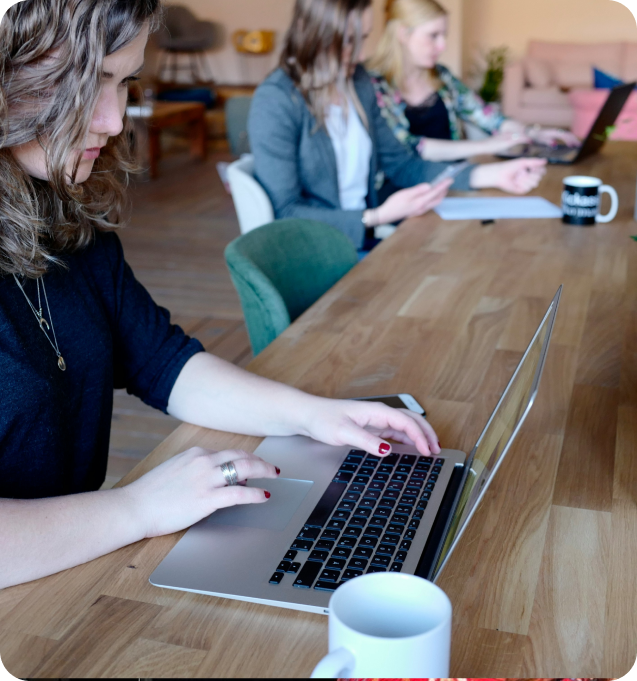
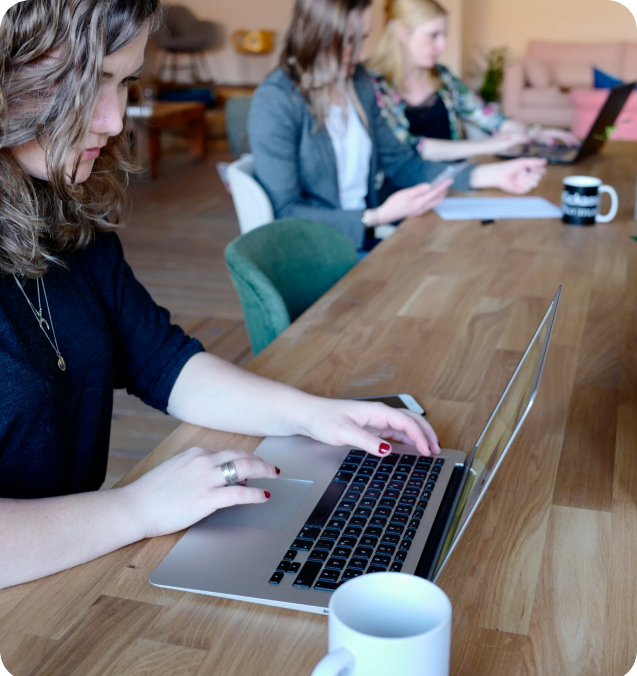
v2

diff --git a/CSS/styles.css b/CSS/styles.css
@@ -11,38 +11,43 @@ body{
 }
 
 /* HEADER */
-.header{
-    display: flex;
-    justify-content: space-between;
-    align-items: center;
-    height: 85px;
-    padding: 30px 5% 5px;
-    margin-bottom: 20px;
+nav{
+    background-color: white;
+    height: 100px;
+    width: 100%;
+    margin-top: 10px;
 }
-.header .logo{
+.enlace{
+    position: absolute;
+    padding: 15px 50px;
     cursor: pointer;
 }
-.header .logo img{
-    height: auto;
-    width: auto;
+nav ul{
+    float: right;
+    margin-right: 20px;
 }
-.header .nav-links li{
+nav ul li{
     display: inline-block;
-    padding: 0 50px;
-    transition: all 0.5s ease;
+    line-height: 80px;
+    margin: 0 5px;
+
 }
-.header .nav-links li:hover{
+nav ul li a{
+    font-size: 18px;
+    color: #7702D6;
+    text-decoration: none;
+    padding: 7px 30px;
+    border-radius: 3px;
+    transition: all 0.5s ease;    
+}
+li a:hover{
+    background-color: #844EEA;
     transform: scale(1.2);
+    color: #F5EDFF;
+    border-radius: 30px;
 }
-.header .nav-links a {
-   font-size: 18px;
-   color: #7702D6;
-   text-decoration: none;
-}
-.header .nav-links li a:hover{
-    color: #844EEA;
-}
-.header .nav-button button{
+
+.nav-button button{
     font-size: 18px;
     width: 151.41px;
     height: 32px;
@@ -53,12 +58,23 @@ body{
     cursor: pointer;
     transition: all 0.5s ease;
 }
-.header .nav-button button:hover{
+.nav-button button:hover{
     background-color: #844EEA;
-    transform: scale(1.2);
     color: #F5EDFF;
+    border: none;
 }
-
+.checkbutton{
+    font-size: 30px;
+    color: #7702D6;
+    float: right;
+    line-height: 80px;
+    margin-right: 40px;
+    cursor: pointer;
+    display: none;
+}
+#check{
+    display: none;
+}
 /* SECTIONS */
 section{
     display: flex;
@@ -118,7 +134,8 @@ section a{
     align-items:normal;
 }
 .section-people-photo{
-    height:100vh ;
+    height:100%;
+    width: 650px;
 }
 .section-people-text{
     display: flex;
@@ -139,6 +156,14 @@ section a{
     margin-bottom: 35px;
 }
 .section-people-paragraph{
+    font-size: 20px;
+    color: #7702D6;
+    padding: 0 100px;
+    margin-bottom: 35px;
+    line-height: 1.3;
+    font-weight: bold;
+}
+.section-people-paragraph2{
     font-size: 20px;
     color: #7702D6;
     padding: 0 100px;
@@ -901,4 +926,92 @@ section a{
 .busqueda-texto img{
     width: 15px;
     height: 15px;
+}
+
+/* MOBILE */
+@media only screen and (max-width: 480px){
+    /* HEADER */
+    .checkbutton{
+        display: block;
+    }
+    ul{
+        position: fixed;
+        width: 100%;
+        height: 100vh;
+        background:#7702D6;
+        top: 80px;
+        left: 100%;
+        text-align: center;
+        transition: all 0.5s;
+    }
+    nav ul li{
+        display: block;
+        margin: 50px 0;
+        line-height: 30px;
+    }
+    nav ul li a{
+        font-size: 20px;
+        color: white;
+    }
+    li a:hover{
+        background: none;
+    }
+    #check:checked ~ ul{
+        left: 0;
+    }
+    section{
+        flex-direction: column;
+        width: 480px;
+        height:100%;
+    }
+    .divisor{
+        flex-direction: column;
+    }
+    .section-people{
+        align-items:center;
+    }
+    .section-people-photo{
+        width: 480px;
+        height:100% ;
+    }
+    .section-people-title{
+        margin-top: 20px;
+        font-size: 45px;
+    }
+    .section-people-paragraph{
+        font-size: 25px;
+        padding: 0 60px;
+        font-weight: 500;
+    }
+    .section-people-paragraph2{
+        display: none;
+    }
+    .section-people-logo{
+        display: none;
+    }
+    .section-people-subtitle{
+        display: none;
+    }
+    /* SECTION NOSOTROS */
+    .section-nosotros{
+        width: 480px;
+        height: 100%;
+    }
+    .section-nosotros-photo{ 
+        width: 200px;
+        height: 150px;
+        margin-left: 0;
+        border-radius: 30px;
+    }
+
+}
+/* TABLET */
+@media only screen and (min-width: 481px) and (max-width: 978px){
+    /* HEADER */
+    .enlace{
+        padding-left:20px;
+    }
+    nav ul li a{
+        font-size: 16px;
+    }
 }

diff --git a/index.html b/index.html
@@ -14,36 +14,38 @@
   </head>
   <body>
     
-    <header class="header">
-        <div class="logo">
-          <a href="./index.html"><image src="imagenes/LOGO.png" alt="logo"></image></a>
-        </div>
-        <nav>
-          <ul class="nav-links">
-             <li><a class="navbar-brand" href="./paginas/nosotros.html">Nosotros</a></li>
-             <li><a class="navbar-brand" href="./paginas/vision.html">Visión</a></li>
-             <li><a class="navbar-brand" href="./paginas/metodologias.html">Servicios</a></li>
-             <li><a class="navbar-brand" href="./paginas/acerca-de.html">Acerca de</a></li>
-          </ul>
-        </nav>
-        <a href="https://wa.me/+5491126690991" class="nav-button"><button>Contacto</button></a>
+    <header>
+      <nav>
+        <input type="checkbox" id="check">
+        <label for="check" class="checkbutton">
+          <i class="fas fa-bars"></i>
+        </label>
+          <a href="./index.html" class="enlace">
+            <image src="imagenes/LOGO.png" alt="logo" class="logo"></image>
+          </a>
+            <ul>
+              <li><a class="navbar-brand" href="./paginas/nosotros.html">Nosotros</a></li>
+              <li><a class="navbar-brand" href="./paginas/vision.html">Visión</a></li>
+              <li><a class="navbar-brand" href="./paginas/metodologias.html">Servicios</a></li>
+              <li><a class="navbar-brand" href="./paginas/acerca-de.html">Acerca de</a></li>
+              <li><a href="https://wa.me/+5491126690991" class="nav-button"><button>Contacto</button></a></li>
+            </ul>
+      </nav>
     </header>
 
     <main>
       <section class="section-people">
         <div>
-          <image class="section-people-photo" src="imagenes/group.jpg" alt="people-photo"></image>
+          <image class="section-people-photo" src="imagenes/group.png" alt="people-photo"></image>
         </div>  
         <div class="section-people-text">
           <image class="section-people-logo" src="imagenes/LOGO.png" alt="logo"></image>
           <h1 class="section-people-title"> People & Culture</h1>
           <p class="section-people-paragraph">
-            <strong>Las personas son el eje que mantiene a la organización en permanente crecimiento.</strong>
-            <br>
-            <br>
-            Clientes y colaboradores fusionados nos permiten sinergias en la capacidad creativa de seguir generando oportunidades.</p>
+            Las personas son el eje que mantiene a la organización en permanente crecimiento.</p>
+          <p class="section-people-paragraph2">Clientes y colaboradores fusionados nos permiten sinergias en la capacidad creativa de seguir generando oportunidades.</p>
           <h3 class="section-people-subtitle">People Centric</h3>
-          <p class="section-people-paragraph">By Claudia</p>  
+          <p class="section-people-paragraph2">By Claudia</p>  
         </div>
       </section>
 
